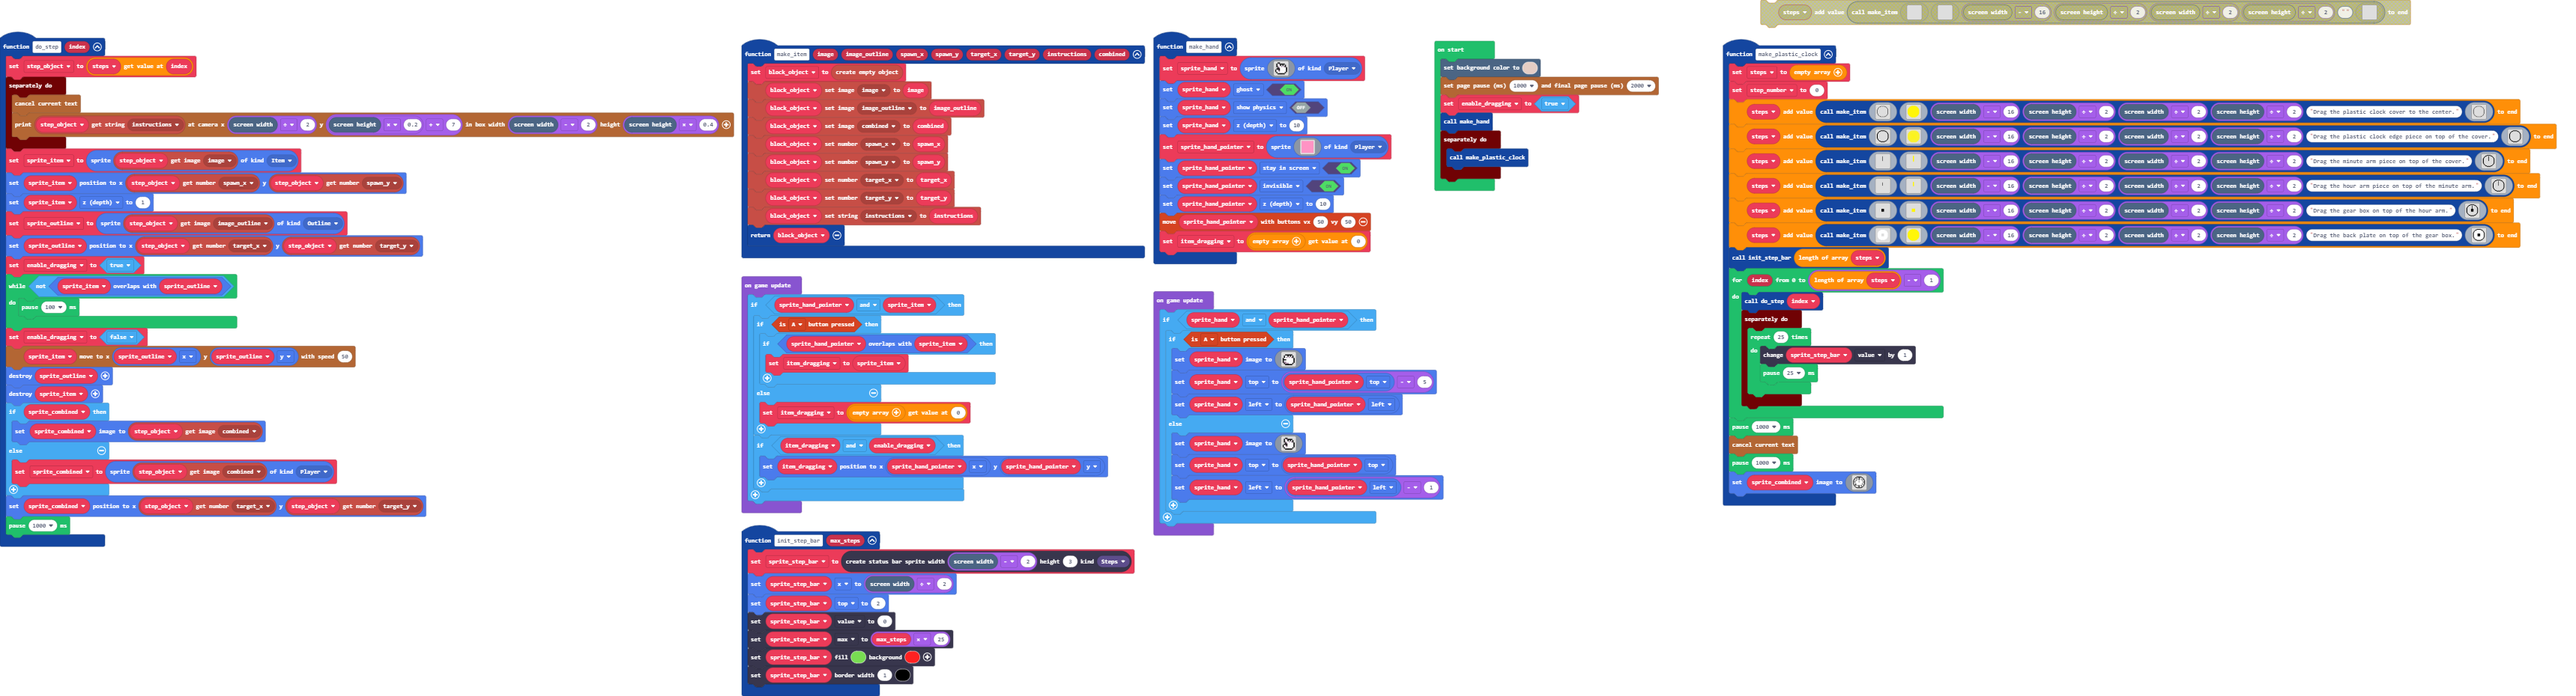
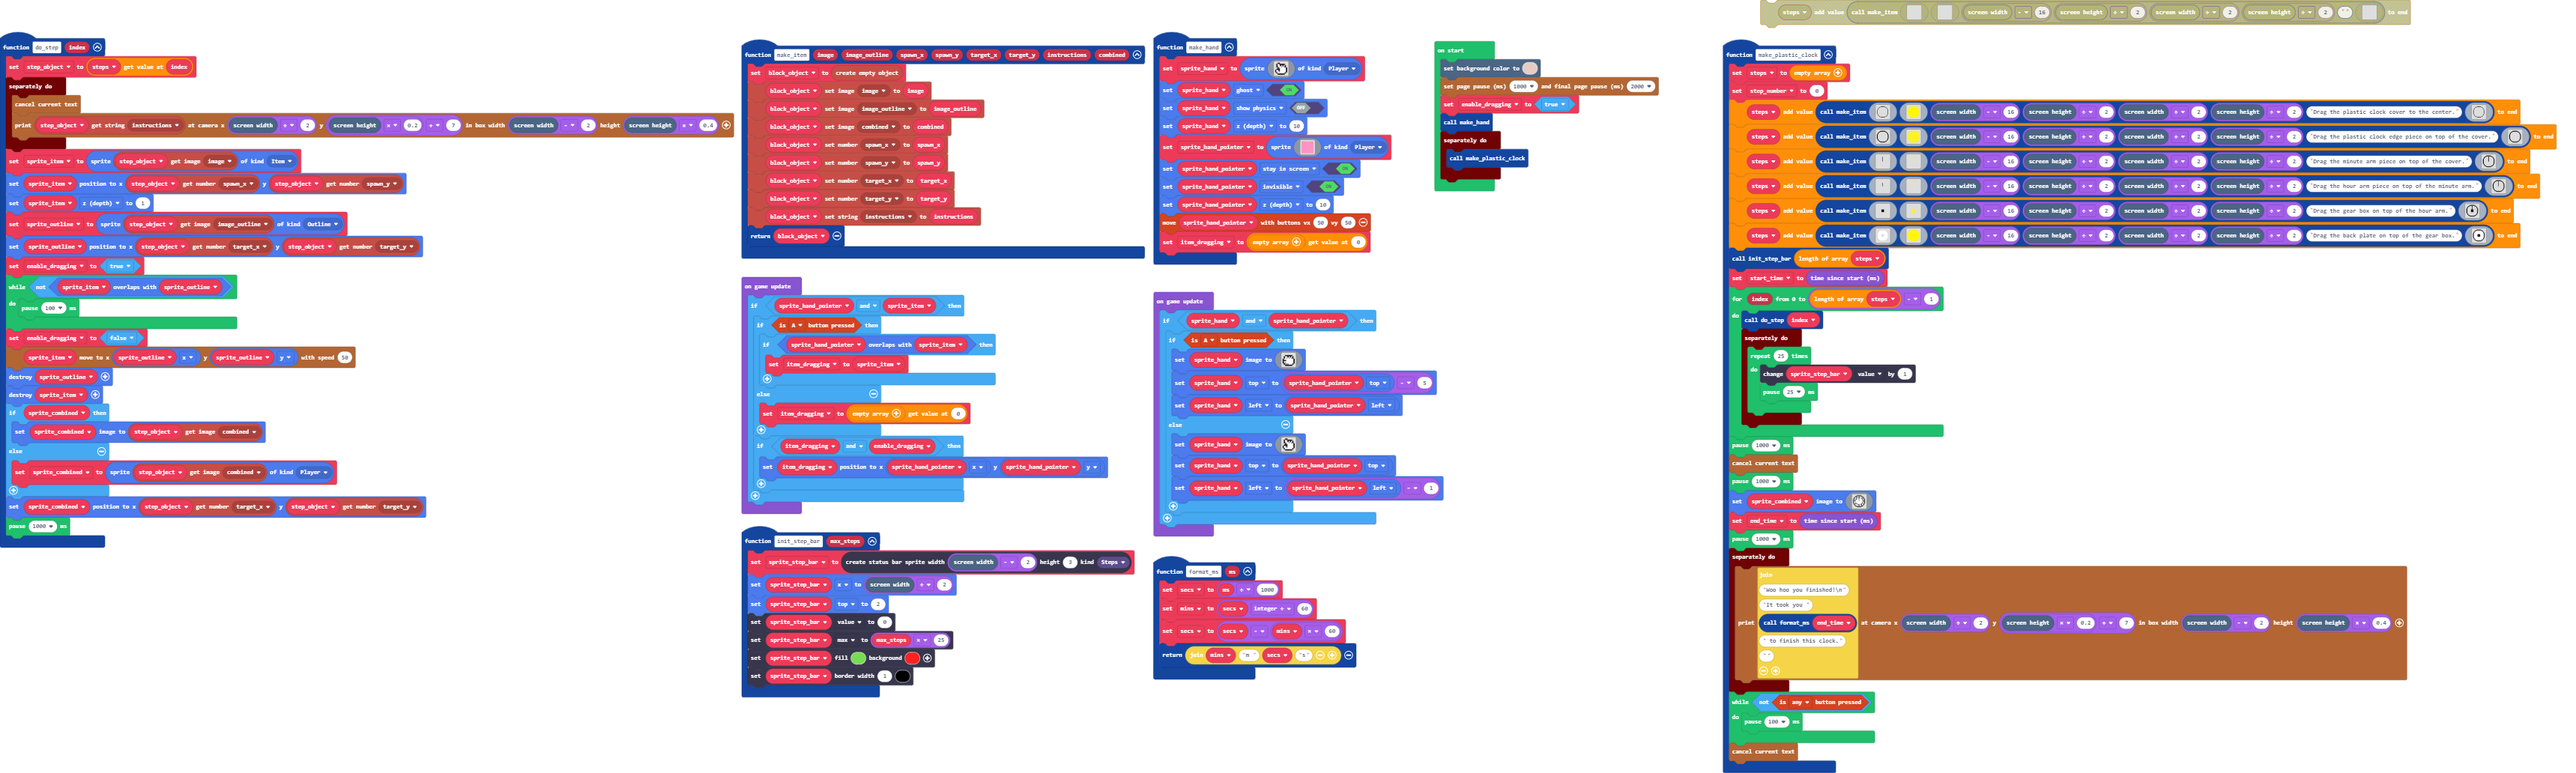
Print text when you finish clock

diff --git a/main.ts b/main.ts
@@ -89,6 +89,7 @@ function make_plastic_clock () {
     steps.push(make_item(assets.image`plastic_clock_gear_box`, assets.image`plastic_clock_gear_box_outline`, scene.screenWidth() - 16, scene.screenHeight() / 2, scene.screenWidth() / 2, scene.screenHeight() / 2, "Drag the gear box on top of the hour arm.", assets.image`plastic_clock_step_5`))
     steps.push(make_item(assets.image`plastic_clock_backplate`, assets.image`plastic_clock_backplate_outline`, scene.screenWidth() - 16, scene.screenHeight() / 2, scene.screenWidth() / 2, scene.screenHeight() / 2, "Drag the back plate on top of the gear box.", assets.image`plastic_clock_step_6`))
     init_step_bar(steps.length)
+    start_time = game.runtime()
     for (let index = 0; index <= steps.length - 1; index++) {
         do_step(index)
         timer.background(function () {
@@ -102,7 +103,26 @@ function make_plastic_clock () {
     story.clearAllText()
     pause(1000)
     sprite_combined.setImage(assets.image`plastic_clock_finished`)
+    end_time = game.runtime()
+    pause(1000)
+    timer.background(function () {
+        story.printDialog("Woo hoo you finished!\\n" + "It took you " + format_ms(end_time) + " to finish this clock." + "", scene.screenWidth() / 2, scene.screenHeight() * 0.2 + 7, scene.screenHeight() * 0.4, scene.screenWidth() - 2)
+    })
+    while (!(controller.anyButton.isPressed())) {
+        pause(100)
+    }
+    story.clearAllText()
 }
+function format_ms (ms: number) {
+    secs = ms / 1000
+    mins = Math.idiv(secs, 60)
+    secs = secs - mins * 60
+    return "" + mins + "m " + secs + "s"
+}
+let mins = 0
+let secs = 0
+let end_time = 0
+let start_time = 0
 let step_number = 0
 let block_object: blockObject.BlockObject = null
 let item_dragging: Sprite = null
